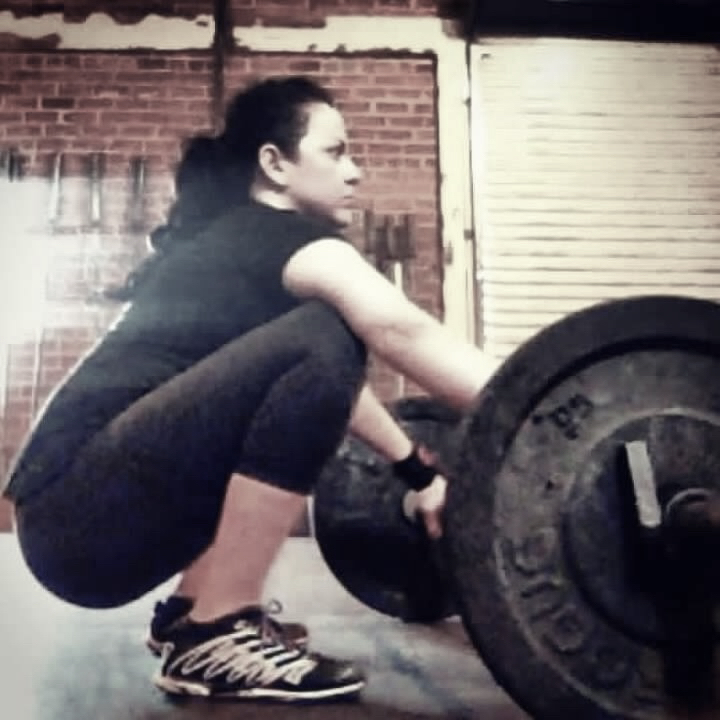
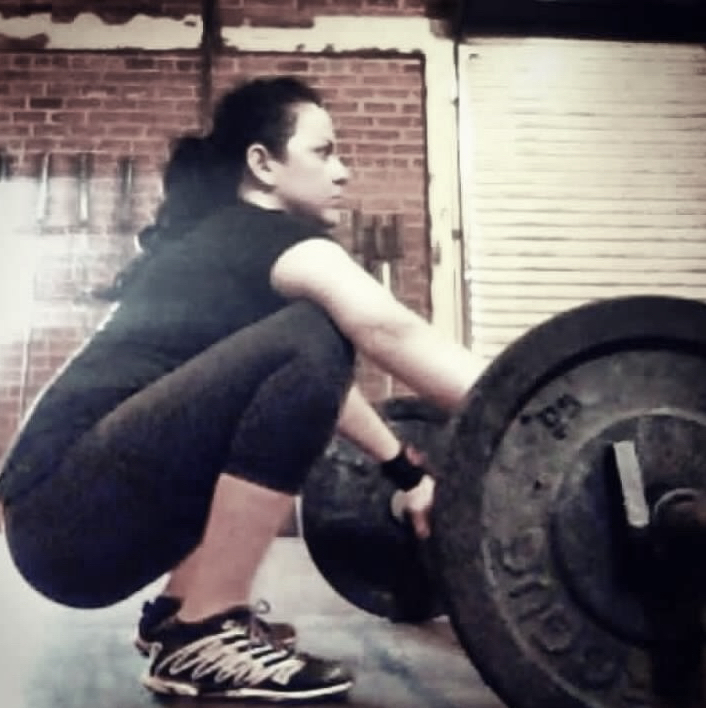
less gifs, more stills

diff --git a/index.html b/index.html
@@ -563,38 +563,37 @@
               <!-- Figure out where the link goes for the application -->
             </div>
 
-            <div class="portfolio-item swiper-slide image" data-groups="all image">
-              <a href="assets/images/eatdaburger.gif" class="portfolio-item--content simple-ajax-popup">
-                <div class="portfolio-item--img b-box">
-                  <img src="assets/images/burgerpic.jpeg" class="img-fluid mx-auto" alt="work-img">
-                </div>
-                <div class="portfolio-item--desc d-flex justify-content-center align-items-center">
-                  <div class="portfolio-item--desc-in">
-                    <h3 class="mb-2 text-white">React JS</h3>
-                    <p class="text-white">Sequelize with Validations</p>
-                  </div>
-                </div>
-              </a>
-            </div>
 
             <div class="portfolio-item swiper-slide slideshow" data-groups="all slideshow">
               <a href="assets/images/TheOffice.gif" class="portfolio-item--content simple-ajax-popup">
                 <div class="portfolio-item--img b-box">
-                  <img src="assets/images/TheOffice.gif" class="img-fluid mx-auto" alt="work-img">
+                  <img src="assets/images/setUp.jpeg" class="img-fluid mx-auto" alt="work-img">
                 </div>
                 <div class="portfolio-item--desc d-flex justify-content-center align-items-center">
                   <div class="portfolio-item--desc-in">
                     <h3 class="mb-2 text-white">Memory Game</h3>
-                    <p class="text-white">Slideshow</p>
+                    <p class="text-white">ReactJS</p>
                   </div>
                 </div>
               </a>
             </div>
-
+      <div class="portfolio-item swiper-slide image" data-groups="all image">
+        <a href="assets/images/BooksToRead.gif" class="portfolio-item--content simple-ajax-popup">
+          <div class="portfolio-item--img b-box">
+            <img src="assets/images/books.jpeg" class="img-fluid mx-auto" alt="work-img">
+          </div>
+          <div class="portfolio-item--desc d-flex justify-content-center align-items-center">
+            <div class="portfolio-item--desc-in">
+              <h3 class="mb-2 text-white">Book Search App</h3>
+              <p class="text-white">ReactJS, Node.js, Express</p>
+            </div>
+          </div>
+        </a>
+      </div>
             <div class="portfolio-item swiper-slide video" data-groups="all video">
               <a href="assets/images/Bamazon.gif" class="portfolio-item--content simple-ajax-popup">
                 <div class="portfolio-item--img b-box">
-                  <img src="assets/images/Bamazon.gif" class="img-fluid mx-auto" alt="work-img">
+                  <img src="assets/images/time-lapse-photo-of-stars-on-night-924824.jpg" class="img-fluid mx-auto" alt="work-img">
                 </div>
                 <div class="portfolio-item--desc d-flex justify-content-center align-items-center">
                   <div class="portfolio-item--desc-in">
@@ -608,32 +607,32 @@
             <div class="portfolio-item swiper-slide  slideshow" data-groups="all slideshow">
               <a href="assets/images/FriendFinder.gif" class="portfolio-item--content simple-ajax-popup">
                 <div class="portfolio-item--img b-box">
-                  <img src="assets/images/FriendFinder.gif" class="img-fluid mx-auto" alt="work-img">
+                  <img src="assets/images/woman-wearing-blue-and-brown-floral-dress-769659.jpg" class="img-fluid mx-auto" alt="work-img">
                 </div>
                 <div class="portfolio-item--desc d-flex justify-content-center align-items-center">
                   <div class="portfolio-item--desc-in">
-                    <h3 class="mb-2 text-white">The wall</h3>
-                    <p class="text-white">Slideshow</p>
+                    <h3 class="mb-2 text-white">Friend Finder</h3>
+                    <p class="text-white">API database</p>
                   </div>
                 </div>
               </a>
             </div>
 
-            <!-- <div class="portfolio-item swiper-slide image" data-groups="all image">
-              <a href="assets/images/p6-6.jpg" class="portfolio-item--content simple-ajax-popup">
-                <div class="portfolio-item--img b-box">
-                  <img src="assets/images/p6-6.jpg" class="img-fluid mx-auto" alt="work-img">
-                </div>
-                <div class="portfolio-item--desc d-flex justify-content-center align-items-center">
-                  <div class="portfolio-item--desc-in">
-                    <h3 class="mb-2 text-white">The wall</h3>
-                    <p class="text-white">Slideshow</p>
-                  </div>
-                </div>
-              </a>
-            </div>
 
-            <div class="portfolio-item swiper-slide video" data-groups="all video">
+<div class="portfolio-item swiper-slide image" data-groups="all image">
+  <a href="assets/images/eatdaburger.gif" class="portfolio-item--content simple-ajax-popup">
+    <div class="portfolio-item--img b-box">
+      <img src="assets/images/burgerpic.jpeg" class="img-fluid mx-auto" alt="work-img">
+    </div>
+    <div class="portfolio-item--desc d-flex justify-content-center align-items-center">
+      <div class="portfolio-item--desc-in">
+        <h3 class="mb-2 text-white">React JS</h3>
+        <p class="text-white">Sequelize with Validations</p>
+      </div>
+    </div>
+  </a>
+</div>
+            <!-- <div class="portfolio-item swiper-slide video" data-groups="all video">
               <a href="assets/images/p7-7.jpg" class="portfolio-item--content simple-ajax-popup">
                 <div class="portfolio-item--img b-box">
                   <img src="assets/images/p7-7.jpg" class="img-fluid mx-auto" alt="work-img">
@@ -672,8 +671,8 @@
                     <p class="text-white">Slideshow</p>
                   </div>
                 </div>
-              </a> -->
-            </div>
+              </a>
+            </div> -->
 
           </div>
           <div class="portfolio-pagination">

diff --git a/assets/css/bumblebee-dark.css b/assets/css/bumblebee-dark.css
@@ -1081,7 +1081,7 @@ strong {
 .contact-details--panel a {
   font-size: 18px;
   font-weight: 500;
-  color: #dedde0;
+  color: #e6f1ef;
   text-decoration: underline;
 }
 

diff --git a/assets/css/bumblebee-light.css b/assets/css/bumblebee-light.css
@@ -1073,7 +1073,7 @@ strong {
 .contact-details--panel a {
   font-size: 18px;
   font-weight: 500;
-  color: #333;
+  color: #e6f1ef;
   text-decoration: underline;
 }
 
